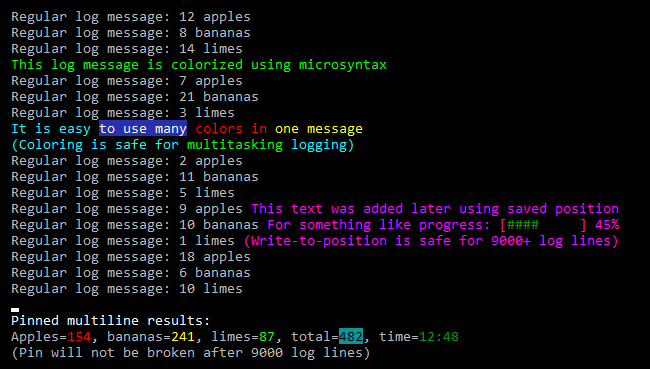
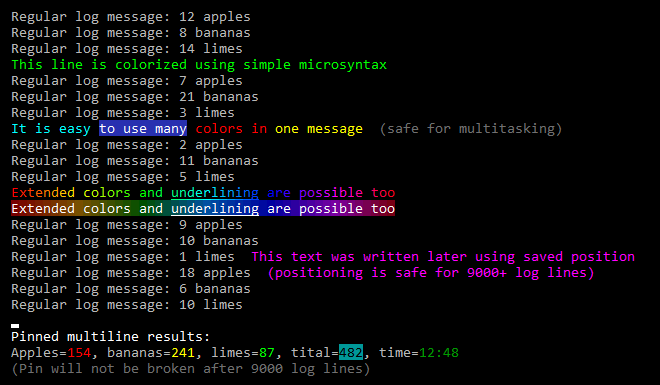
Readme & screenshots

Changed region(s): [[0.0, 0.0298, 0.9846, 0.8049], [0.0, 0.8347, 0.7077, 0.9837]]

diff --git a/XConsole.Demo/Screenshots.cs b/XConsole.Demo/Screenshots.cs
@@ -1,0 +1,168 @@
+using System;
+
+namespace Chubrik.XConsole.Demo;
+
+public static class Screenshots
+{
+    public static void Summary()
+    {
+        Console.WriteLine("Regular log message: 12 apples");
+        Console.WriteLine("Regular log message: 8 bananas");
+        Console.WriteLine("Regular log message: 14 limes");
+        Console.WriteLine("G`This line is colorized using simple microsyntax");
+        Console.WriteLine("Regular log message: 7 apples");
+        Console.WriteLine("Regular log message: 21 bananas");
+        Console.WriteLine("Regular log message: 3 limes");
+        Console.WriteLine("C`It is easy ", "Wb`to use many", "R` colors in ", "Y`one message", "d`  (safe for multitasking)");
+        Console.WriteLine("Regular log message: 2 apples");
+        Console.WriteLine("Regular log message: 11 bananas");
+        Console.WriteLine("Regular log message: 5 limes");
+
+        var ansiText = "Extended colors and underlining are possible too";
+        var part = Math.Ceiling(ansiText.Length / (float)6);
+
+        for (var step = 1; step <= 2; step++)
+        {
+            var maxRed = step == 1 ? 255 : 120;
+            var maxGreen = step == 1 ? 255 : 80;
+            var maxBlue = step == 1 ? 255 : 160;
+
+            for (var i = 0; i < ansiText.Length; i++)
+            {
+                var red = i <= part ? maxRed : i < part * 2 ? (int)(maxRed * (1 - (i - part) / (float)part)) : i >= part * 5 ? maxRed : i > part * 4 ? (int)(maxRed * (i - part * 4) / (float)part) : 0;
+                var green = i < part ? (int)(maxGreen * i / (float)part) : i <= part * 3 ? maxGreen : i < part * 4 ? (int)(maxGreen * (1 - (i - part * 3) / (float)part)) : 0;
+                var blue = i <= part * 2 ? 0 : i < part * 3 ? (int)(maxBlue * (i - part * 2) / (float)part) : i <= part * 5 ? maxBlue : i < part * 6 ? (int)(maxBlue * (1 - (i - part * 5) / (float)part)) : 0;
+                var letter = step == 1 ? ansiText[i].ToString().Color(red, green, blue) : ansiText[i].ToString().Color(ConsoleColor.White).BgColor(red, green, blue);
+                Console.Write(i >= 20 && i <= 30 ? letter.Underline() : letter);
+            }
+
+            Console.WriteLine();
+        }
+
+        Console.WriteLine("Regular log message: 9 apples");
+        Console.WriteLine("Regular log message: 10 bananas");
+        Console.WriteLine("Regular log message: 1 limes", "M`  This text was written later using saved position");
+        Console.WriteLine("Regular log message: 18 apples", "M`  (positioning is safe for 9000+ log lines)");
+        Console.WriteLine("Regular log message: 6 bananas");
+        Console.WriteLine("Regular log message: 10 limes");
+
+        Console.Pin(() => new[]
+        {
+            "W`Pinned multiline results:\n",
+            "Apples=", "R`154", ", bananas=", "Y`241", ", limes=", "G`87", ", tital=", "nc`482", ", time=", "g`12:48\n",
+            "d`(Pin will not be broken after 9000 log lines)"
+        });
+
+        for (; ; )
+            if (Console.ReadKey(true).Key == ConsoleKey.Escape)
+                return;
+    }
+
+    public static void ColorsTable()
+    {
+        Console.WriteLine("d`code                        result  comment");
+        Console.WriteLine("Console.Write(", "y`\"W`text\"", ");    ", "W`text    [W]", "hite");
+        Console.WriteLine("Console.Write(", "y`\"Y`text\"", ");    ", "Y`text    [Y]", "ellow");
+        Console.WriteLine("Console.Write(", "y`\"C`text\"", ");    ", "C`text    [C]", "yan");
+        Console.WriteLine("Console.Write(", "y`\"G`text\"", ");    ", "G`text    [G]", "reen");
+        Console.WriteLine("Console.Write(", "y`\"M`text\"", ");    ", "M`text    [M]", "agenta");
+        Console.WriteLine("Console.Write(", "y`\"R`text\"", ");    ", "R`text    [R]", "ed");
+        Console.WriteLine("Console.Write(", "y`\"B`text\"", ");    ", "B`text    [B]", "lue");
+        Console.WriteLine("Console.Write(", "y`\"w`text\"", ");    ", "w`text    ", "dark [w]hite (gray)");
+        Console.WriteLine("Console.Write(", "y`\"y`text\"", ");    ", "y`text    ", "dark ", "y`[y]", "ellow");
+        Console.WriteLine("Console.Write(", "y`\"c`text\"", ");    ", "c`text    ", "dark ", "c`[c]", "yan");
+        Console.WriteLine("Console.Write(", "y`\"g`text\"", ");    ", "g`text    ", "dark ", "g`[g]", "reen");
+        Console.WriteLine("Console.Write(", "y`\"m`text\"", ");    ", "m`text    ", "dark ", "m`[m]", "agenta");
+        Console.WriteLine("Console.Write(", "y`\"r`text\"", ");    ", "r`text    ", "dark ", "r`[r]", "ed");
+        Console.WriteLine("Console.Write(", "y`\"b`text\"", ");    ", "b`text    ", "dark ", "b`[b]", "lue");
+        Console.WriteLine("Console.Write(", "y`\"d`text\"", ");    ", "d`text    [d]", "ark gray");
+        Console.WriteLine("Console.Write(", "y`\"n`text\"", ");    ", "n`text    ", "d`[n]", "o color (black)");
+    }
+
+    public static void StaticPin1()
+    {
+        Console.WriteLine("Regular log message");
+        Console.WriteLine("Regular log message");
+        Console.WriteLine("Regular log message");
+        Console.WriteLine("Regular log message");
+        Console.Pin("Simple static pin");
+
+        for (; ; )
+            if (Console.ReadKey(true).Key == ConsoleKey.Escape)
+                return;
+    }
+
+    public static void StaticPin2()
+    {
+        Console.WriteLine("Regular log message");
+        Console.WriteLine("Regular log message");
+        Console.WriteLine("Regular log message");
+        Console.WriteLine("Regular log message");
+        Console.Pin("Y`Multicolor", " static pin");
+
+        for (; ; )
+            if (Console.ReadKey(true).Key == ConsoleKey.Escape)
+                return;
+    }
+
+    public static void StaticPin3()
+    {
+        Console.WriteLine("Regular log message");
+        Console.WriteLine("Regular log message");
+        Console.WriteLine("Regular log message");
+        Console.Pin("Multiline\nstatic pin");
+
+        for (; ; )
+            if (Console.ReadKey(true).Key == ConsoleKey.Escape)
+                return;
+    }
+
+    public static void DynamicPin1()
+    {
+        var value = 25;
+        Console.WriteLine("Regular log message");
+        Console.WriteLine("Regular log message");
+        Console.WriteLine("Regular log message");
+        Console.WriteLine("Regular log message");
+        Console.Pin(() => "Simple pin, value=" + value);
+
+        for (; ; )
+            if (Console.ReadKey(true).Key == ConsoleKey.Escape)
+                return;
+    }
+
+    public static void DynamicPin2()
+    {
+        var value = 25;
+        Console.WriteLine("Regular log message");
+        Console.WriteLine("Regular log message");
+        Console.WriteLine("Regular log message");
+        Console.WriteLine("Regular log message");
+        Console.Pin(() => new[] { "Y`Multicolor", " pin, value=", "C`" + value });
+
+        for (; ; )
+            if (Console.ReadKey(true).Key == ConsoleKey.Escape)
+                return;
+    }
+
+    public static void DynamicPin3()
+    {
+        var value = 25;
+        Console.WriteLine("Regular log message");
+        Console.WriteLine("Regular log message");
+        Console.WriteLine("Regular log message");
+        Console.Pin(() => new[] { "Multiline pin,\nvalue=", "C`" + value });
+
+        for (; ; )
+            if (Console.ReadKey(true).Key == ConsoleKey.Escape)
+                return;
+    }
+
+    public static void Hello()
+    {
+        var (begin, end) = Console.WriteLine("Hello, World!");
+        begin.Write("C`HELLO");
+        end = end.Write(" I'm here");
+        end.Write("Y`!");
+    }
+}

diff --git a/README.md b/README.md
@@ -4,7 +4,6 @@
 
 Extended .NET console with coloring microsyntax, multiline pinning, write-to-position, etc.
 Safe for multitasking, safe for 9000+ lines, easy to use.
-
 The main features are shown in the following image:
 
 ![XConsole summary](https://raw.githubusercontent.com/chubrik/XConsole/main/img/summary.png)
@@ -16,7 +15,7 @@ The main features are shown in the following image:
 - [Pinning](#pinning)
 - [Positioning](#positioning)
 - [License](#license)
-<br>
+<br><br><br>
 
 ## <a name="install"></a>Install
 By Package Manager:
@@ -49,20 +48,20 @@ This trick is great for upgrading an existing regular console application
 because XConsole is backwards compatible with the standard Console.
 After the upgrade, the application will not change how it works
 unless you want to start using the XConsole features.
-<br><br><br>
+<br><br><br><br>
 
 ## <a name="coloring"></a>Coloring
-To colorize the text you need to add a prefix to a string.
+
+### Standard console colors
+To colorize the text with standard console colors you need to add a prefix to a string.
 The prefix consists of one or two letters denoting colors,
 followed by a trailing `` ` `` character, after which the text immediately begins.
-
 Let’s denote the text color letter as *T* and the background color letter as *B*.
 In this case, there are three prefix patterns: `` T` `` to change only text color,
 `` TB` `` to change both colors, ``  B` `` (space at the beginning) to change only background color.
-
 For example, to colorize text to green just add `` G` `` prefix (*G* means green):
 ```csharp
-Console.WriteLine("G`This log message is colorized using microsyntax");
+Console.WriteLine("G`This line is colorized using simple microsyntax");
 ```
 ![XConsole single color](https://raw.githubusercontent.com/chubrik/XConsole/main/img/colors-single.png)
 
@@ -74,14 +73,24 @@ Console.WriteLine("C`It is easy ", "Wb`to use many", "R` colors in ", "Y`one mes
 ```
 ![XConsole multicolor](https://raw.githubusercontent.com/chubrik/XConsole/main/img/colors-multi.png)
 
-The following table shows all possible colors and their letter designations:
+The following table shows all standard console colors and their letter designations:
 
 ![XConsole color table](https://raw.githubusercontent.com/chubrik/XConsole/main/img/colors-table.png)
 <br>
 
-### NO_COLOR
+### Extended colors
+If you’re running your application on Windows 10+ with .NET 5+, extended colors are available to you:
+```csharp
+// Different ways to colorize text orange
+Console.WriteLine("text".Color(Color.Orange));
+Console.WriteLine("text".Color(255, 160, 0));
+Console.WriteLine("text".Color(0xFFA000));
+Console.WriteLine("text".Color("#FFA000"));
+```
+
+#### NO_COLOR
 XConsole supports the [`NO_COLOR`](https://no-color.org/) standard with an appropriate environment variable and property.
-<br><br><br>
+<br><br><br><br>
 
 ## <a name="pinning"></a>Pinning
 You can pin some text below regular log messages with the `Pin` method.
@@ -117,14 +126,13 @@ To remove a pin, call the `Unpin` method:
 ```csharp
 Console.Unpin(); // Remove pin
 ```
-<br>
+<br><br>
 
 ## <a name="positioning"></a>Positioning
 XConsole provides a `ConsolePosition` structure, which is a position in the console area.
 This is an important feature if you have a lot of log messages.
 This structure is resistant to console buffer overflows (9000+ log lines)
 and always points to the correct position in the console area.
-
 Each `Write` and `WriteLine` method returns a start and end position.
 You can save them and use later to rewrite the text or add text to the end of the message.
 To do this, `ConsolePosition` has its own `Write` method, which returns a new end position.
@@ -145,7 +153,7 @@ You can also get or set the cursor position using the `ConsolePosition` structur
 ConsolePosition position = Console.CursorPosition;              // Get cursor position
 Console.CursorPosition = new ConsolePosition(left: 15, top: 5); // Set cursor position
 ```
-<br>
+<br><br>
 
 ## <a name="license"></a>License
 The XConsole is licensed under the [MIT license](https://github.com/chubrik/XConsole/blob/main/LICENSE).
